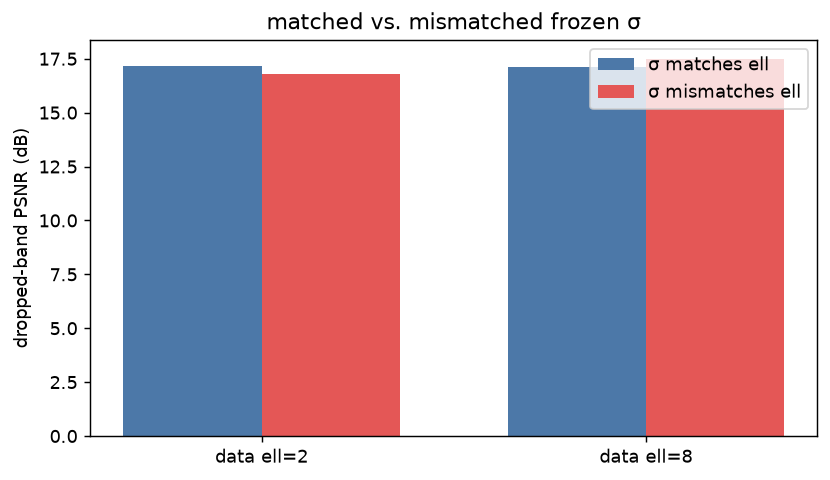
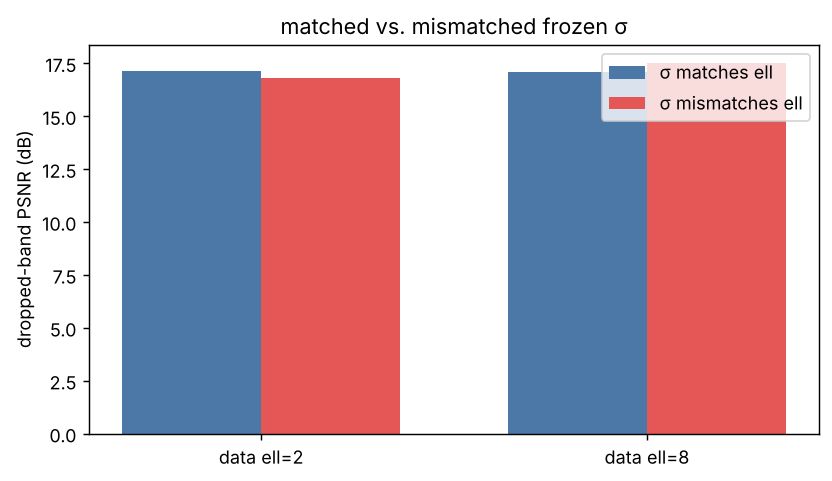
Rerun synthetic Part A with training-free references and per-ell evaluation
Mean-0.5 baseline measured at 16.49 dB; frozen-sigma Mamba reaches only
17.0-17.2 dB vs 23.2 dB for linear interpolation and 24.7 dB for the GP
optimum, so the block does not learn band interpolation on this task.

Claude-Session: https://claude.ai/code/session_01EV69ctE44ByahnWEGST4YQ

Changed region(s): [[0.0, 0.0312, 0.994, 0.9688]]

diff --git a/RESEARCH_LOG.md b/RESEARCH_LOG.md
@@ -21,7 +21,7 @@
 | 10-01 | ecb94bc | 修复不学习:`in_proj` 加 bias,改用默认 Linear 初始化 | 无 bias 时全零波段 token 经 SiLU 门控被静音;std=0.02 初始化使输出成为三个近零因子之积,落在鞍点 |
 | 10-01 | 3de68d9 | `selective_dt=False` | 选择性 dt 会自行调衰减,σ 估计器停在初始值;固定 dt 才能让 σ 成为唯一控制量 |
 | 10-01 | 2a5c49a | σ 冻结为超参数,dt 固定为一个波段 | - |
-| 10-01 | 52f3a79 | 冻结 σ 的丢波段实验 | 30% 丢波段下,真实数据 19 dB(输入 5.7 dB;无光谱信息的空间 CNN 13 dB,光谱 MLP 22 dB,所以先验可用但不是最优);合成数据 17 dB,但预测均值的平凡基线约 16.5 dB(空间 CNN 为 16.5 dB),不能说明问题;块的 Jacobian 半宽度在结果文件里为 0.0,可能是残差恒等项主导所致,未验证;σ 匹配 GP 长度尺度只在 ℓ=2 时 +0.3 dB,ℓ=8 变差,σ 小一点略好 |
+| 10-01 | 52f3a79 | 冻结 σ 的丢波段实验 | 30% 丢波段(置零)+0.02 噪声,只在被丢波段上算 PSNR(峰值 1)。真实数据(Indian Pines,28 波段):19.0 dB,无光谱信息的空间 CNN 13.4 dB,光谱 MLP 22.2 dB,先验可用但不是最优;真实数据的输入 PSNR 与朴素基线未记录。合成数据见下一节的重跑结果,结论是块没有学会插值。块的 Jacobian 半宽度在结果文件里为 0.0,可能是残差恒等项主导,未验证 |
 | 10-01 | 6d261a9 | 2 阶段小 patch 训练可在 CPU/GPU 跑 | 无 CAVE 时回退 Indian Pines;每 epoch 记录 PSNR/SAM |
 | 10-01 | eb2c01b / d25e810 | 用 SpecMamba 替换 CMB+SAB | 64×64、8 epoch、CPU:baseline 26.33 dB / 5.52°,SpecMamba 25.05 dB / 6.53°,约慢 3 倍(13 s vs 4 s/epoch)。仅 8 epoch,非收敛结果 |
 | 10-04 | 5bba8c7 / f25eb40 | `Exp_kernel_interpret.py` 核可解释性 | 裸 SSM(B=C=1, Δ=1)的 e-folding 与平均滞后随 σ 增大;放进完整 SpecMamba/SRB(学习的 B/C、门控、skip)后,非对角 Jacobian 宽度对所有 σ 都约 8 个波段,与可学习 A 和 CMB 无差别。**σ 的物理含义被 B/C/门控绕开** |
@@ -35,6 +35,29 @@
 |---|---|---|---|
 | learned dt | 38.00 | 35.73 | 36.33 |
 | continuous(物理 dt) | 37.59 | 33.65 | 33.07 |
+
+### 合成数据重跑:加入无训练基线与分 ℓ 评估(10-07)
+
+`Exp_spectral_continuity.py --parts a`,32 张测试图,被丢波段 PSNR(dB),完整结果在 `exp_out/results.json` 的 `synthetic.per_ell`。
+
+| 模型 | ℓ=1 | ℓ=2 | ℓ=4 | ℓ=8 | 全部 |
+|---|---|---|---|---|---|
+| 输入(丢的波段为 0) | 5.66 | 5.66 | 5.63 | 5.66 | 5.65 |
+| 均值预测(全填 0.5) | 16.45 | 16.51 | 16.56 | 16.45 | 16.49 |
+| 线性插值 | 18.46 | 24.43 | 30.59 | 34.57 | 23.19 |
+| GP 最优(理论上限) | 19.66 | 27.11 | 33.27 | 37.36 | 24.70 |
+| 冻结 σ=1 | 16.89 | 17.29 | 17.43 | 17.37 | 17.24 |
+| 冻结 σ=2 | 16.83 | 17.21 | 17.36 | 17.29 | 17.17 |
+| 冻结 σ=4 | 16.76 | 17.09 | 17.23 | 17.16 | 17.05 |
+| 冻结 σ=8 | 16.63 | 16.89 | 17.00 | 16.91 | 16.85 |
+| specMLP | 15.49 | 16.32 | 17.71 | 18.08 | 16.78 |
+| spatialCNN | 16.45 | 16.50 | 16.55 | 16.45 | 16.49 |
+
+- 均值预测基线实测 16.49 dB(与由方差 0.15² 推算的 16.5 dB 一致)。
+- 冻结 σ 的 Mamba 只比均值基线高 0.4 到 0.9 dB,而线性插值在 ℓ≥2 时高出 8 到 18 dB,所以这个块在合成任务上没有学会利用相邻波段。specMLP 和 spatialCNN 同样停在基线附近。
+- σ 越小越好(σ=1 在所有 ℓ 上最高),与"σ 对应相关长度"的设想相反。
+- σ 匹配 ℓ 的对照(单一 ℓ 数据):ℓ=2 时 σ=2 为 17.14、σ=8 为 16.81;ℓ=8 时 σ=8 为 17.10、σ=2 为 17.49,匹配并不更好。
+- 训练 800 步,损失约 0.006 到 0.007。三类学习型模型都没有逼近线性插值,原因未验证(可能是步数不足或置零输入难以区分"被丢"和"真的是 0")。
 
 ## 3. 现状判断
 
